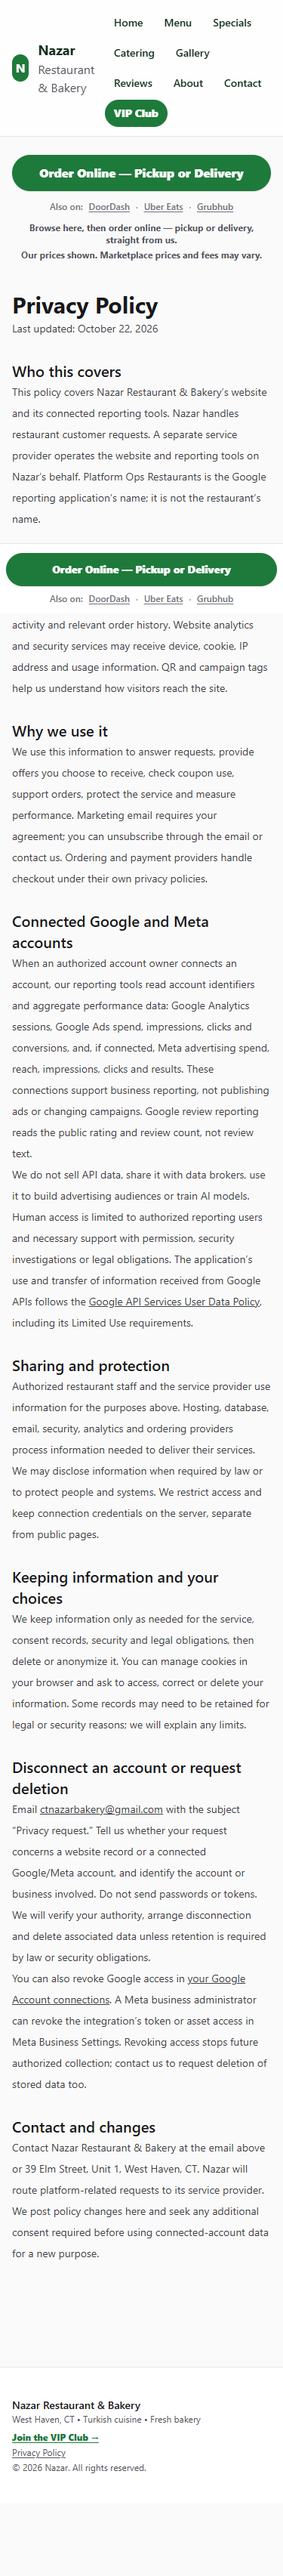
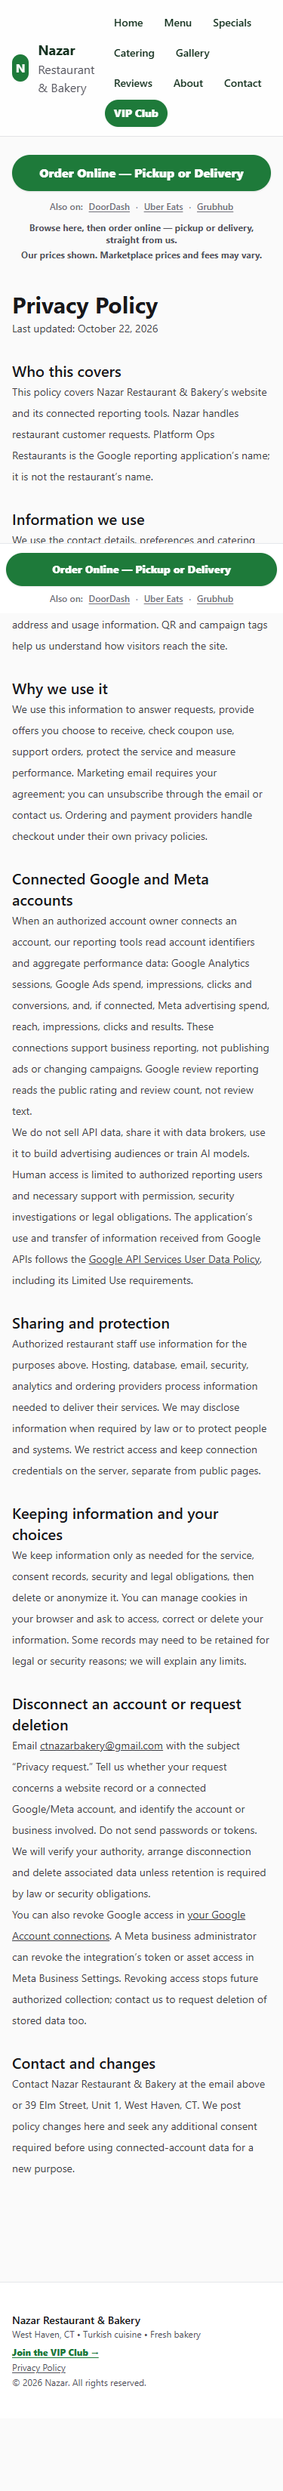
Apply Talip privacy naming decision and remove provider references

Changed region(s): [[0.0293, 0.0, 0.9973, 0.8745], [0.0293, 0.9057, 0.4987, 0.9682], [0.0587, 0.0, 0.088, 0.0312]]

diff --git a/src/pages/PrivacyPage.tsx b/src/pages/PrivacyPage.tsx
@@ -1,7 +1,7 @@
 import { useSeo } from "../hooks/useSeo";
 
 export default function PrivacyPage() {
-  useSeo("Privacy Policy", "How Nazar Restaurant & Bakery and its service provider handle website, customer and connected reporting data.", "/privacy");
+  useSeo("Privacy Policy", "How Nazar Restaurant & Bakery handles website, customer and connected reporting data.", "/privacy");
   return (
     <article className="mx-auto max-w-3xl space-y-7 px-4 py-10 text-sm leading-7 text-zinc-700">
       <header>
@@ -10,7 +10,7 @@ export default function PrivacyPage() {
       </header>
       <section aria-labelledby="privacy-who">
         <h2 id="privacy-who" className="text-xl font-semibold text-zinc-900">Who this covers</h2>
-        <p>This policy covers Nazar Restaurant &amp; Bakery’s website and its connected reporting tools. Nazar handles restaurant customer requests. A separate service provider operates the website and reporting tools on Nazar’s behalf. Platform Ops Restaurants is the Google reporting application’s name; it is not the restaurant’s name.</p>
+        <p>This policy covers Nazar Restaurant &amp; Bakery’s website and its connected reporting tools. Nazar handles restaurant customer requests. Platform Ops Restaurants is the Google reporting application’s name; it is not the restaurant’s name.</p>
       </section>
       <section aria-labelledby="privacy-collect">
         <h2 id="privacy-collect" className="text-xl font-semibold text-zinc-900">Information we use</h2>
@@ -27,7 +27,7 @@ export default function PrivacyPage() {
       </section>
       <section aria-labelledby="privacy-sharing">
         <h2 id="privacy-sharing" className="text-xl font-semibold text-zinc-900">Sharing and protection</h2>
-        <p>Authorized restaurant staff and the service provider use information for the purposes above. Hosting, database, email, security, analytics and ordering providers process information needed to deliver their services. We may disclose information when required by law or to protect people and systems. We restrict access and keep connection credentials on the server, separate from public pages.</p>
+        <p>Authorized restaurant staff use information for the purposes above. Hosting, database, email, security, analytics and ordering providers process information needed to deliver their services. We may disclose information when required by law or to protect people and systems. We restrict access and keep connection credentials on the server, separate from public pages.</p>
       </section>
       <section aria-labelledby="privacy-retention">
         <h2 id="privacy-retention" className="text-xl font-semibold text-zinc-900">Keeping information and your choices</h2>
@@ -40,7 +40,7 @@ export default function PrivacyPage() {
       </section>
       <section aria-labelledby="privacy-contact">
         <h2 id="privacy-contact" className="text-xl font-semibold text-zinc-900">Contact and changes</h2>
-        <p>Contact Nazar Restaurant &amp; Bakery at the email above or 39 Elm Street, Unit 1, West Haven, CT. Nazar will route platform-related requests to its service provider. We post policy changes here and seek any additional consent required before using connected-account data for a new purpose.</p>
+        <p>Contact Nazar Restaurant &amp; Bakery at the email above or 39 Elm Street, Unit 1, West Haven, CT. We post policy changes here and seek any additional consent required before using connected-account data for a new purpose.</p>
       </section>
     </article>
   );

diff --git a/20_Yonetim/Teslim_Raporlari/K12_Privacy_teslim.md b/20_Yonetim/Teslim_Raporlari/K12_Privacy_teslim.md
@@ -2,9 +2,11 @@
 
 22 Ekim 2026 · taban main `0ff9496`. Yalnız yeni /privacy rotası, İngilizce politika metni ve ortak footer'dan Privacy Policy bağlantısı. API, form, Ads/Meta adaptörü, personel rotası, secret ve DB değişikliği yok. Düz metin: `K12_Privacy_Taslak.md`; aynı metin PrivacyPage.tsx'te görünür.
 
-## Talip + Yücel onayı
+## Talip onayı — tüzel ad yok kararı
 
-Bu PR bir politika taslağıdır; yayın/merge Talip'te. Platform, Nazar'dan ayrı hizmet sağlayıcıdır; “Platform Ops Restaurants” bir uygulama adıdır, hukuki şirket unvanı olarak sunulmaz. Yayından önce platform işletmecisinin gerçek hukuki unvanı/iletişim bilgisini, Nazar adına hizmet kapsamını ve `ctnazarbakery@gmail.com` adresinin privacy/deletion taleplerini karşılayacağını doğrulayın; unvan belli olunca ilk paragrafta açıkça adlandırın. Saklama/silme beyanının manuel operasyonla nasıl yerine getirileceği Talip + Yücel tarafından kabul edilmelidir; bu PR otomatik silme işi veya yeni uç nokta kurmaz. Kesin gün sayısı/yanıt süresi uydurulmadı.
+22 Ekim Talip kararı: politika yalnız “Nazar Restaurant & Bakery” adıyla yayımlanır. Sayfada platform işletmecisinin veya restoranın yasal/tüzel unvanı ve “ayrı hizmet sağlayıcı” ifadesi bulunmaz; tüzel unvan ekleme şartı kaldırılmıştır. “Platform Ops Restaurants” yalnız Google raporlama uygulamasının adı olarak açıklanır; şirket unvanı değildir. Yücel onayı gerekmiyor; yayın/merge kararı Talip'te.
+
+Who this covers, Sharing and protection ve Contact and changes bölümlerindeki ilgili hizmet sağlayıcı ifadeleri, ayrıca SEO açıklamasındaki ifade kaldırıldı. Sayfa ve K12_Privacy_Taslak.md eşitlendi. `ctnazarbakery@gmail.com` ve `39 Elm Street, Unit 1, West Haven, CT` korundu. Saklama/silme metni değişmedi; otomatik silme işi veya yeni uç nokta kurulmadı.
 
 Google veri erişimi/kullanımı/paylaşımı, Limited Use, server-side credentials, erişim iptali ve kayıt silme ayrı açıklanır. Google Ads mevcut OAuth scope'u geniştir; fiili erişim Read-only Ads kullanıcısı ve raporlama adaptörüyle sınırlıdır. Meta paragrafı koşulludur: Meta bağlı gibi sunulmaz. `/privacy#data-deletion`, herkese açık silme talimatı bağlantısıdır; callback endpoint değildir. Meta uygulama sahipliği/inceleme sonucuna göre App Dashboard'da URL ve Data Deletion Instructions alanları Talip tarafından ayarlanır. Politika metni tek başına Google/Meta onayı garantisi değildir.
 
@@ -21,3 +23,5 @@ Meta kaynağı: [Meta'nın resmî Marketing API koleksiyonu — access levels](h
 ## Yerel doğrulama
 
 TypeScript, değişen üç UI dosyasında lint, sentetik Production build geçti. Yerel tarayıcı **6/6**: doğrudan public rota/SEO, canonical, sekiz bölüm + deletion mailto, 375px taşma yok, VIP footer bağlantısı, dış trafik/runtime hatası yok. Kanıtlar `K12_Privacy_kanit/`. Canlı site/DB/Google/Meta/secret işlemi ve polling yapılmadı.
+
+22 Ekim düzeltme doğrulaması: sayfa/düz metin birebir eşit, SEO dahil service provider ifadesi yok, uygulama adı ve iletişim bilgileri korundu. Tarayıcı testi yeniden **6/6** geçti; 375px/masaüstü kanıtları yenilendi.

diff --git a/20_Yonetim/Teslim_Raporlari/K12_Privacy_Taslak.md b/20_Yonetim/Teslim_Raporlari/K12_Privacy_Taslak.md
@@ -4,7 +4,7 @@ Last updated: October 22, 2026
 
 ## Who this covers
 
-This policy covers Nazar Restaurant & Bakery’s website and its connected reporting tools. Nazar handles restaurant customer requests. A separate service provider operates the website and reporting tools on Nazar’s behalf. Platform Ops Restaurants is the Google reporting application’s name; it is not the restaurant’s name.
+This policy covers Nazar Restaurant & Bakery’s website and its connected reporting tools. Nazar handles restaurant customer requests. Platform Ops Restaurants is the Google reporting application’s name; it is not the restaurant’s name.
 
 ## Information we use
 
@@ -22,7 +22,7 @@ We do not sell API data, share it with data brokers, use it to build advertising
 
 ## Sharing and protection
 
-Authorized restaurant staff and the service provider use information for the purposes above. Hosting, database, email, security, analytics and ordering providers process information needed to deliver their services. We may disclose information when required by law or to protect people and systems. We restrict access and keep connection credentials on the server, separate from public pages.
+Authorized restaurant staff use information for the purposes above. Hosting, database, email, security, analytics and ordering providers process information needed to deliver their services. We may disclose information when required by law or to protect people and systems. We restrict access and keep connection credentials on the server, separate from public pages.
 
 ## Keeping information and your choices
 
@@ -36,4 +36,4 @@ You can also revoke Google access in [your Google Account connections](https://m
 
 ## Contact and changes
 
-Contact Nazar Restaurant & Bakery at the email above or 39 Elm Street, Unit 1, West Haven, CT. Nazar will route platform-related requests to its service provider. We post policy changes here and seek any additional consent required before using connected-account data for a new purpose.
+Contact Nazar Restaurant & Bakery at the email above or 39 Elm Street, Unit 1, West Haven, CT. We post policy changes here and seek any additional consent required before using connected-account data for a new purpose.
